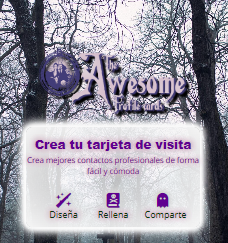
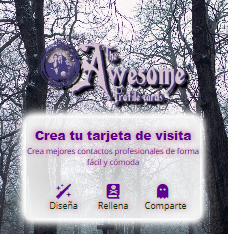
cv

diff --git a/src/components/Contact.jsx b/src/components/Contact.jsx
@@ -33,7 +33,7 @@ function Contact() {
             </a>
           </p>
           <p className="contactDetails">CV
-              <a href="https://drive.google.com/file/d/12rWc0XYr2uju0RFXxrDek3ooU6a3uTJt/view?usp=drive_link" target="_blank" rel="noopener noreferrer"> <img src={pdfImg} width="20px" alt="cv" /></a>
+              <a href="https://drive.google.com/file/d/1epNTCUDMVFhkov_uaZUdiuFe59Hm9Mh1/view?usp=drive_link" target="_blank" rel="noopener noreferrer" download="Virginia_AlvarezP_cv.pdf"> <img src={pdfImg} width="20px" alt="cv" /></a>
             </p>
         </section>
         <section className="formSection">

diff --git a/src/components/Aboutme.jsx b/src/components/Aboutme.jsx
@@ -41,9 +41,10 @@ function Aboutme() {
                 My CV
                 <a
                   className="cv"
-                  href="https://drive.google.com/file/d/12rWc0XYr2uju0RFXxrDek3ooU6a3uTJt/view?usp=drive_link"
+                  href="https://drive.google.com/file/d/1epNTCUDMVFhkov_uaZUdiuFe59Hm9Mh1/view?usp=drive_link"
                   target="_blank"
                   rel="noopener noreferrer"
+                  download="Virginia_AlvarezP_cv.pdf"
                 >
                   {" "}
                   <img src={pdfImg} width="20px" alt="cv" />

diff --git a/src/components/Projects.jsx b/src/components/Projects.jsx
@@ -1,6 +1,6 @@
 // import React from 'react'
 import "../styles/App.scss";
-import bosque1 from "../images/fotos proyectos/bosques.png";
+import bosque1 from "../images/fotos proyectos/bosques1.png";
 import rocket1 from "../images/fotos proyectos/rocket1.png";
 import owen1 from "../images/fotos proyectos/owen.png";
 import addams1 from "../images/fotos proyectos/addams.png";
